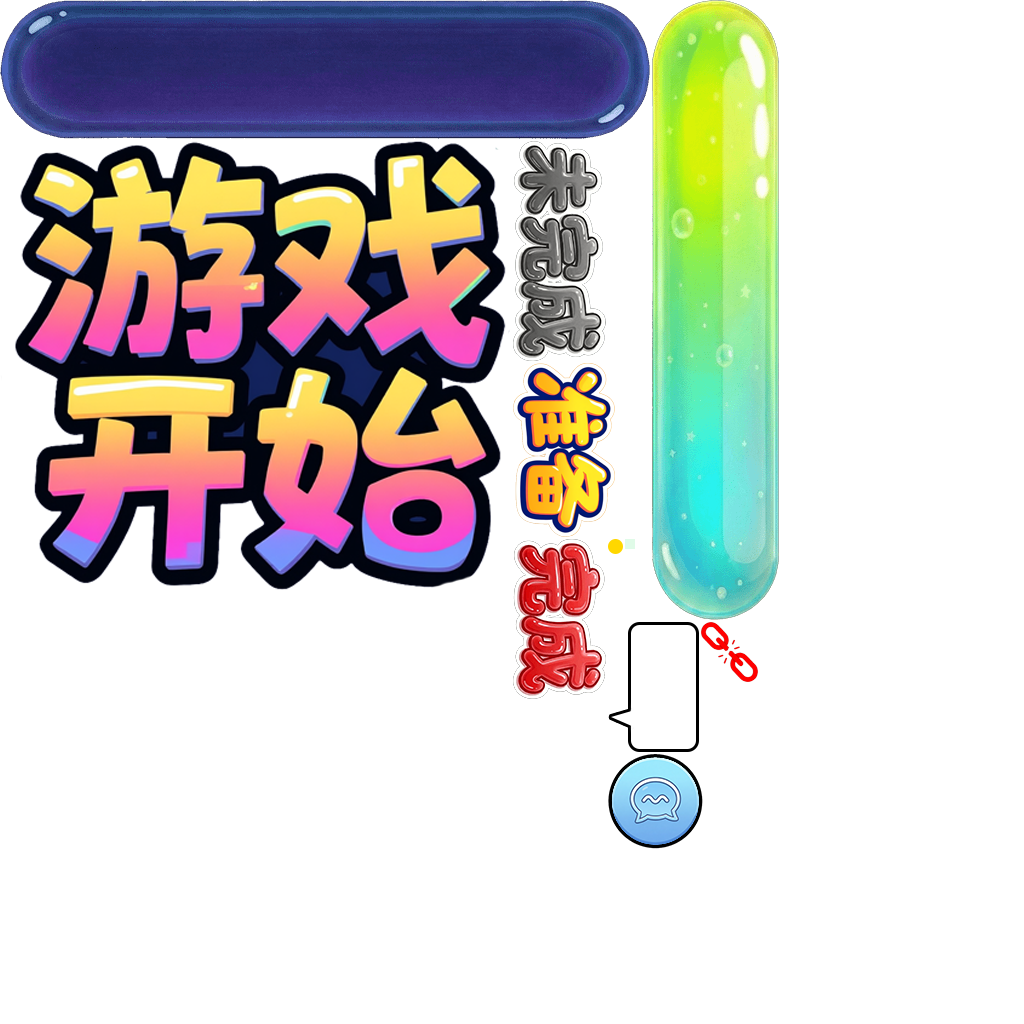
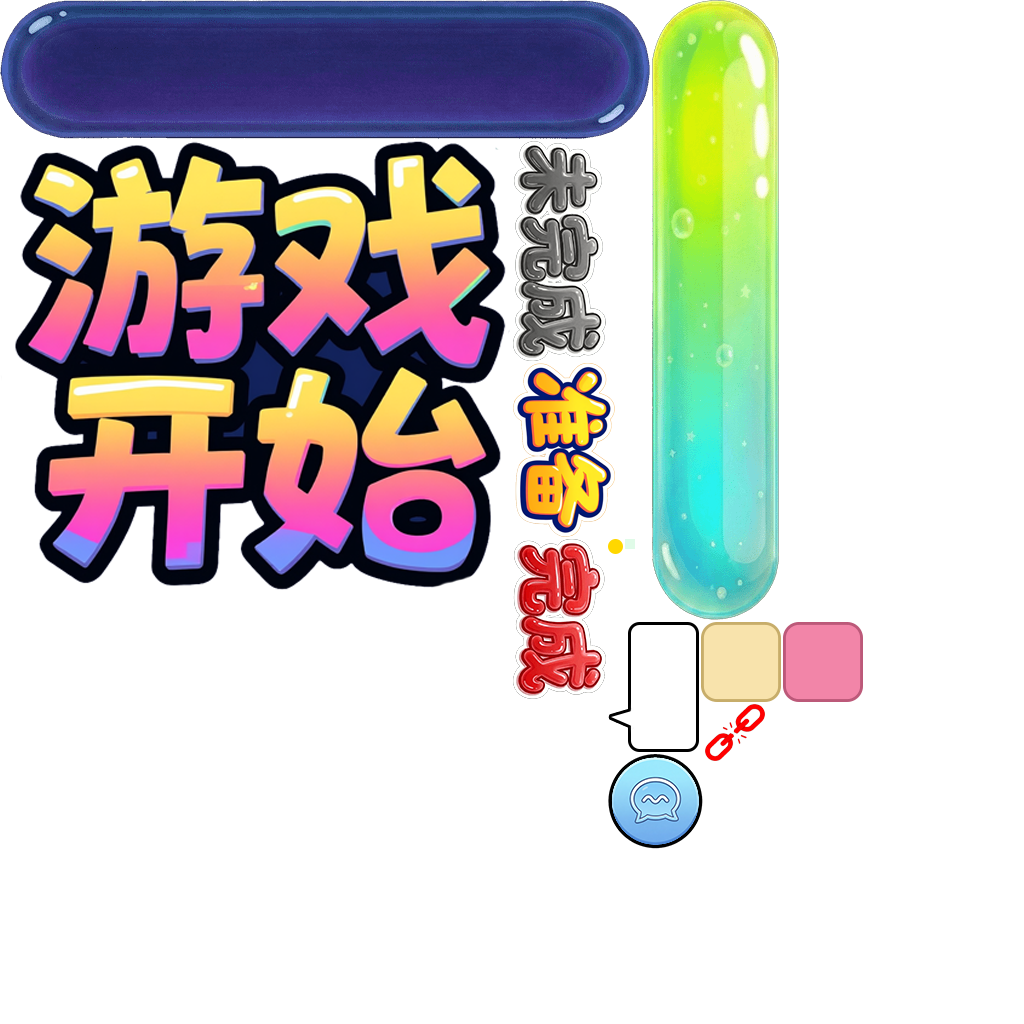
feat(fgui): 添加选中状态控制器及相关资源
- 在CompCube组件中新增ctrl_selected控制器支持选中与未选中状态
- 引入bg1.png和bg2.png作为选中与未选中背景图
- 更新package.xml注册新增的图片资源
- 修改FGUICompCube.ts，添加ctrl_selected控制器字段并调整UI元素索引
- 添加resFruit资源包及相关图片资源
- 更新CompCube.xml，修改loader3D属性并添加对应gearDisplay绑定控制器页面

Changed region(s): [[0.6875, 0.5938, 0.8438, 0.7188], [0.6875, 0.7188, 0.7188, 0.75]]

diff --git a/assets/scripts/fgui/game10002/FGUICompCube.ts b/assets/scripts/fgui/game10002/FGUICompCube.ts
@@ -8,6 +8,7 @@ import { Logger } from "@frameworks/utils/Utils";
 
 export default class FGUICompCube extends fgui.GComponent {
 
+	public ctrl_selected:fgui.Controller;
 	public UI_LOADER_ICOM:fgui.GLoader;
 	public UI_SP_ANI:fgui.GLoader3D;
 	public static URL:string = "ui://2zsfe53xhs3tr";
@@ -50,8 +51,9 @@ export default class FGUICompCube extends fgui.GComponent {
 	}
 
 	protected onConstruct():void {
-		this.UI_LOADER_ICOM = <fgui.GLoader>(this.getChildAt(0));
-		this.UI_SP_ANI = <fgui.GLoader3D>(this.getChildAt(1));
+		this.ctrl_selected = this.getControllerAt(0);
+		this.UI_LOADER_ICOM = <fgui.GLoader>(this.getChildAt(2));
+		this.UI_SP_ANI = <fgui.GLoader3D>(this.getChildAt(3));
 	}
 	scheduleOnce(callback: () => void, delay: number):void{};
 	unscheduleAllCallbacks():void{};
